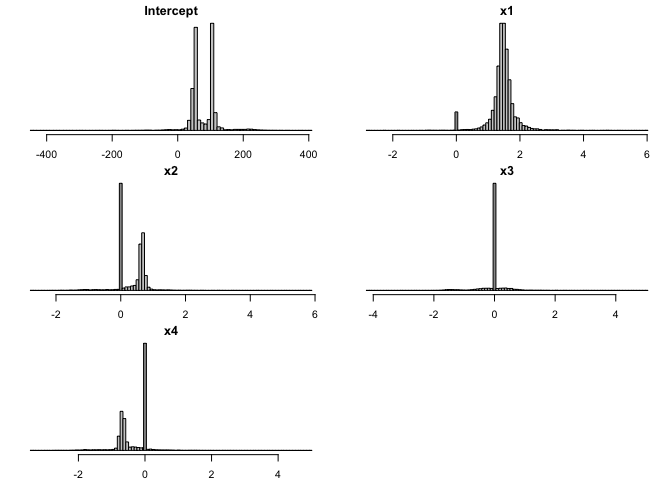
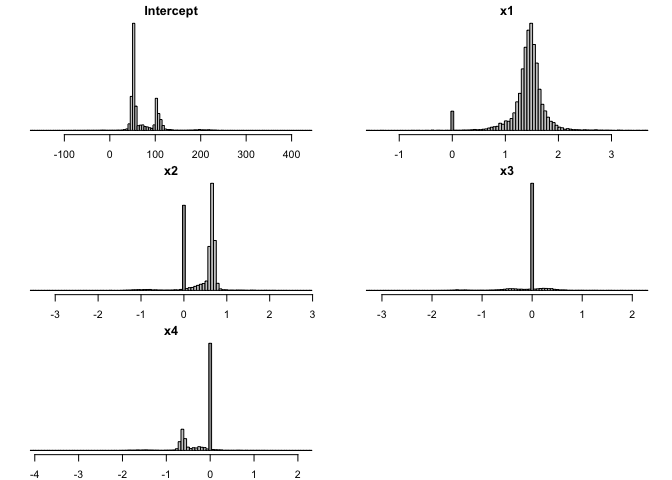
Changes in file README.Rmd

diff --git a/README.md b/README.md
@@ -36,9 +36,8 @@ can be installed using:
 
 You can track, download the latest version or contribute to the
 development of `BayesVarSel` at
-[https://github.com/carlosvergara/BayesVarSel](https://github.com/comodin19/BayesVarSel).
-To install the most recent version of the package (1.7.1.9000) you
-should:
+<https://github.com/comodin19/BayesVarSel>. To install the most recent
+version of the package (1.7.1.9000) you should:
 
 1.  Install devtools from CRAN with `install.packages("devtools")`.
 2.  Install the development version of `BayesVarSel` from
@@ -76,10 +75,9 @@ Variable selection
     #> ## NOTE: Since v1.7.0 former function 'BayesFactor' has been renamed as 'Btest'
     #> ## Copyright (C) 2013-2017 Anabel Forte and Gonzalo Garcia-Donato
     #> #########
-    set.seed(171) # For reproducibility of simulations.
 
     data(Hald)
-    hald_Bvs <- Bvs(formula = "y ~ x1 + x2 + x3 + x4", data = Hald[-c(1:2),])
+    hald_Bvs <- Bvs(formula = y ~ x1 + x2 + x3 + x4, data = Hald)
     #> Info. . . .
     #> Most complex model has 5 covariates
     #> From those 1 is fixed and we should select from the remaining 4 
@@ -90,14 +88,14 @@ Variable selection
     summary(hald_Bvs)
     #> 
     #> Call:
-    #> Bvs(formula = "y ~ x1 + x2 + x3 + x4", data = Hald[-c(1:2), ])
+    #> Bvs(formula = y ~ x1 + x2 + x3 + x4, data = Hald)
     #> 
     #> Inclusion Probabilities:
     #>    Incl.prob. HPM MPM
-    #> x1     0.9664   *   *
-    #> x2     0.6239   *   *
-    #> x3     0.2644        
-    #> x4     0.5466       *
+    #> x1     0.9762   *   *
+    #> x2     0.7563   *   *
+    #> x3     0.2624        
+    #> x4     0.4153        
     #> ---
     #> Code: HPM stands for Highest posterior Probability Model and
     #>  MPM for Median Probability Model.
@@ -106,9 +104,11 @@ Variable selection
     #> 
     #> Simulations obtained using the best 10 models
     #> that accumulate 1 of the total posterior probability
-    #> [1] 77.18841 71.94447
+    #> [1] 78.90662 73.00883
 
     # Simulate coefficients
+    set.seed(171) # For reproducibility of simulations.
+
     sim_coef <- BMAcoeff(hald_Bvs);
     #> 
     #> Simulations obtained using the best 10 models
@@ -118,43 +118,37 @@ Variable selection
 
 
     colMeans(sim_coef)
-    #>   Intercept          x1          x2          x3          x4 
-    #> 78.45163252  1.44424004  0.33660183 -0.02656885 -0.33266539
+    #>  Intercept         x1         x2         x3         x4 
+    #> 70.9736117  1.4166974  0.4331986 -0.0409743 -0.2170662
 
-Model selection
----------------
+Hypothesis testing
+------------------
 
     library(BayesVarSel)
-    set.seed(171) # For reproducibility of simulations.
     data(Hald)
-    fullmodel <- as.formula("y ~ x1 + x2 + x3 + x4")
-    reducedmodel <- as.formula("y ~ x1 + x2")
-    nullmodel <- as.formula("y ~ 1")
+    fullmodel <- y ~ x1 + x2 + x3 + x4
+    reducedmodel <- y ~ x1 + x2
+    nullmodel <- y ~ 1
     Btest(models = c(H0 = nullmodel, H1 = fullmodel, H2 = reducedmodel), data = Hald)
-    #> $BFi0
-    #>  H0.to.H0  H1.to.H0  H2.to.H0 
-    #>       1.0   44300.8 3175456.4 
-    #> 
-    #> $PostProbi
-    #>           H0           H1           H2 
-    #> 3.105823e-07 1.375905e-02 9.862406e-01 
-    #> 
-    #> $models
-    #> $models$H0
+    #> ---------
+    #> Models:
+    #> $H0
     #> y ~ 1
     #> 
-    #> $models$H1
+    #> $H1
     #> y ~ x1 + x2 + x3 + x4
     #> 
-    #> $models$H2
+    #> $H2
     #> y ~ x1 + x2
     #> 
-    #> 
-    #> $nullmodel
-    #> [1] 1
-    #> 
-    #> attr(,"class")
-    #> [1] "Btest"
+    #> ---------
+    #> Bayes factors (expressed in relation to H0)
+    #>  H0.to.H0  H1.to.H0  H2.to.H0 
+    #>       1.0   44300.8 3175456.4 
+    #> ---------
+    #> Posterior probabilities:
+    #>    H0    H1    H2 
+    #> 0.000 0.014 0.986
 
 References
 ----------
